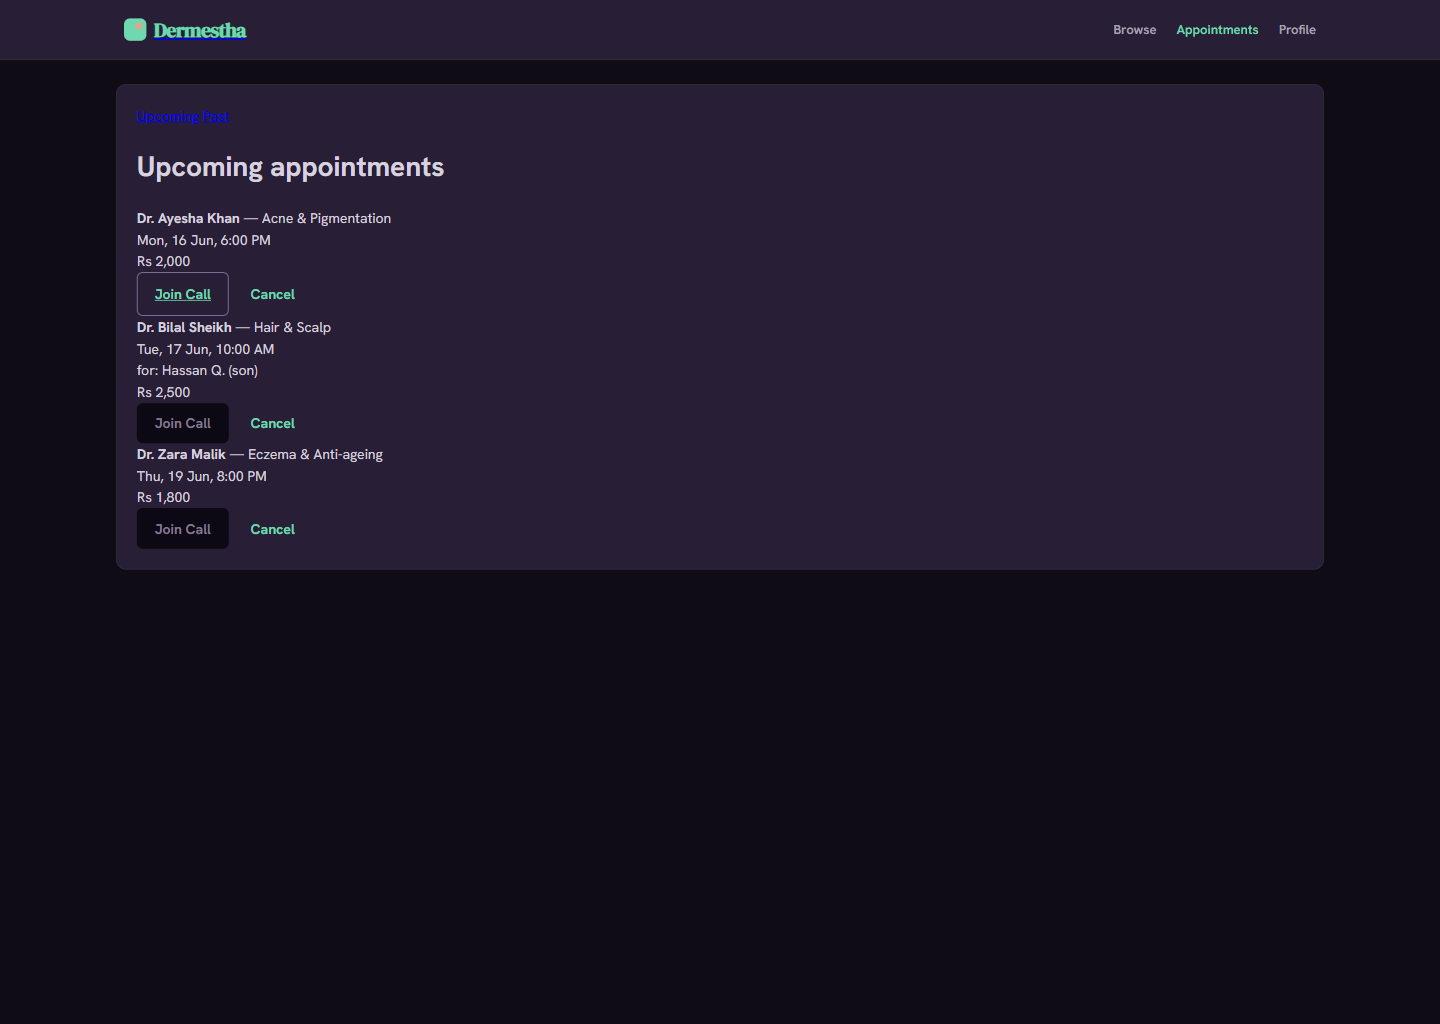
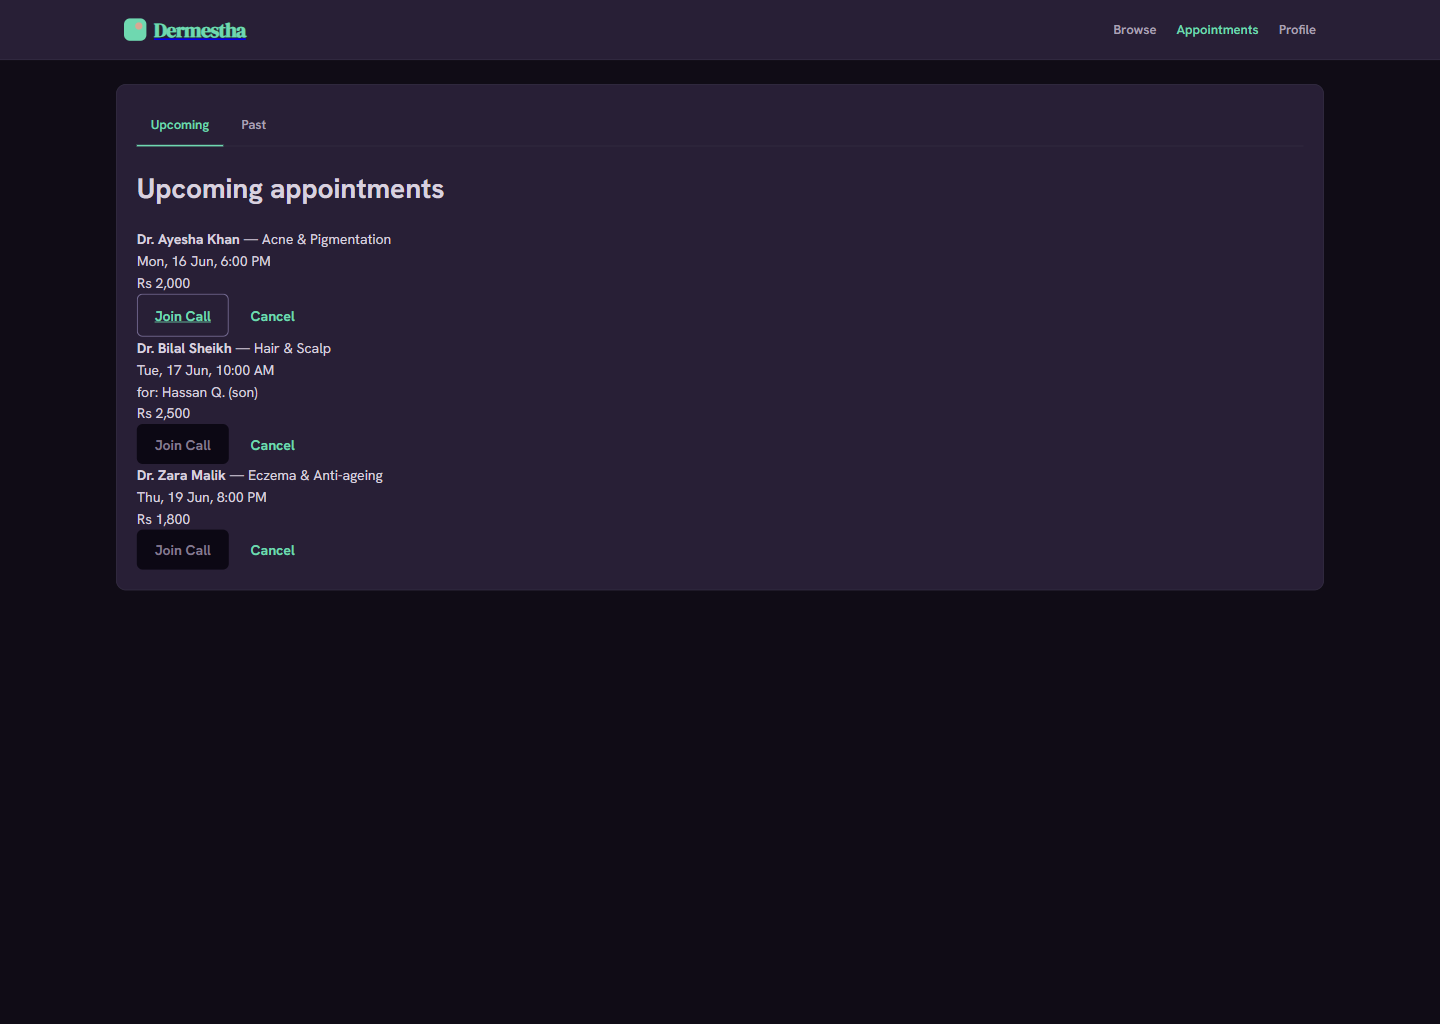
test(theme): add theme-runtime unit test (persist/apply/read/fallback)
client 135 -> 141 tests; validates F17 Appearance runtime contract

Changed region(s): [[0.0625, 0.0938, 0.9375, 0.5938]]

diff --git a/client/test/unit/lib/theme/theme.test.js b/client/test/unit/lib/theme/theme.test.js
@@ -1,0 +1,61 @@
+import { describe, it, expect, beforeEach } from 'vitest';
+import {
+  STORAGE_KEY,
+  DEFAULT_THEME,
+  THEMES,
+  setTheme,
+  applyTheme,
+  getActiveTheme,
+  initTheme,
+  isKnownTheme,
+} from '#src/lib/theme/theme.js';
+
+describe('theme runtime (F17 — Appearance)', () => {
+  beforeEach(() => {
+    localStorage.clear();
+    document.documentElement.removeAttribute('data-theme');
+  });
+
+  it('registry includes the live default + the spruce fallback, each with admin-preview fields', () => {
+    const ids = THEMES.map((t) => t.id);
+    expect(ids).toContain(DEFAULT_THEME);
+    expect(ids).toContain('spruce');
+    for (const t of THEMES) {
+      expect(t).toMatchObject({
+        id: expect.any(String),
+        label: expect.any(String),
+        tagline: expect.any(String),
+      });
+      expect(Array.isArray(t.swatches)).toBe(true);
+    }
+  });
+
+  it('setTheme applies data-theme on <html> AND persists to localStorage', () => {
+    setTheme('derma-noir');
+    expect(document.documentElement.getAttribute('data-theme')).toBe('derma-noir');
+    expect(localStorage.getItem(STORAGE_KEY)).toBe('derma-noir');
+    expect(getActiveTheme()).toBe('derma-noir');
+  });
+
+  it('applyTheme switches the theme WITHOUT persisting (preview only)', () => {
+    applyTheme('sage-blush');
+    expect(document.documentElement.getAttribute('data-theme')).toBe('sage-blush');
+    expect(localStorage.getItem(STORAGE_KEY)).toBe(null);
+  });
+
+  it('initTheme applies a stored preference when present', () => {
+    localStorage.setItem(STORAGE_KEY, 'sage-blush');
+    initTheme();
+    expect(document.documentElement.getAttribute('data-theme')).toBe('sage-blush');
+  });
+
+  it('initTheme falls back to DEFAULT_THEME with no stored preference', () => {
+    initTheme();
+    expect(document.documentElement.getAttribute('data-theme')).toBe(DEFAULT_THEME);
+  });
+
+  it('isKnownTheme distinguishes registered themes from unknown ids', () => {
+    expect(isKnownTheme(DEFAULT_THEME)).toBe(true);
+    expect(isKnownTheme('not-a-theme')).toBe(false);
+  });
+});

diff --git a/client/__theme_preview__/gallery.html b/client/__theme_preview__/gallery.html
@@ -14,10 +14,10 @@
 
   <!-- REAL production CSS, linked in the same order as src/main.jsx (tokens -> components),
        with an optional themes.css slot for the after-pass (may 404 today — handled gracefully). -->
-  <link rel="stylesheet" href="../src/styles/tokens.css?v=after" />
-  <link rel="stylesheet" href="../src/styles/themes.css?v=after" onerror="this.remove()" />
-  <link rel="stylesheet" href="../src/styles/components.css?v=after" />
-  <link rel="stylesheet" href="../src/modules/marketing/views/Landing/Landing.css?v=after" />
+  <link rel="stylesheet" href="../src/styles/tokens.css?v=after2" />
+  <link rel="stylesheet" href="../src/styles/themes.css?v=after2" onerror="this.remove()" />
+  <link rel="stylesheet" href="../src/styles/components.css?v=after2" />
+  <link rel="stylesheet" href="../src/modules/marketing/views/Landing/Landing.css?v=after2" />
 
   <!-- Harness-only chrome. Prefixed .gx-* so it never collides with app classes. -->
   <style>
